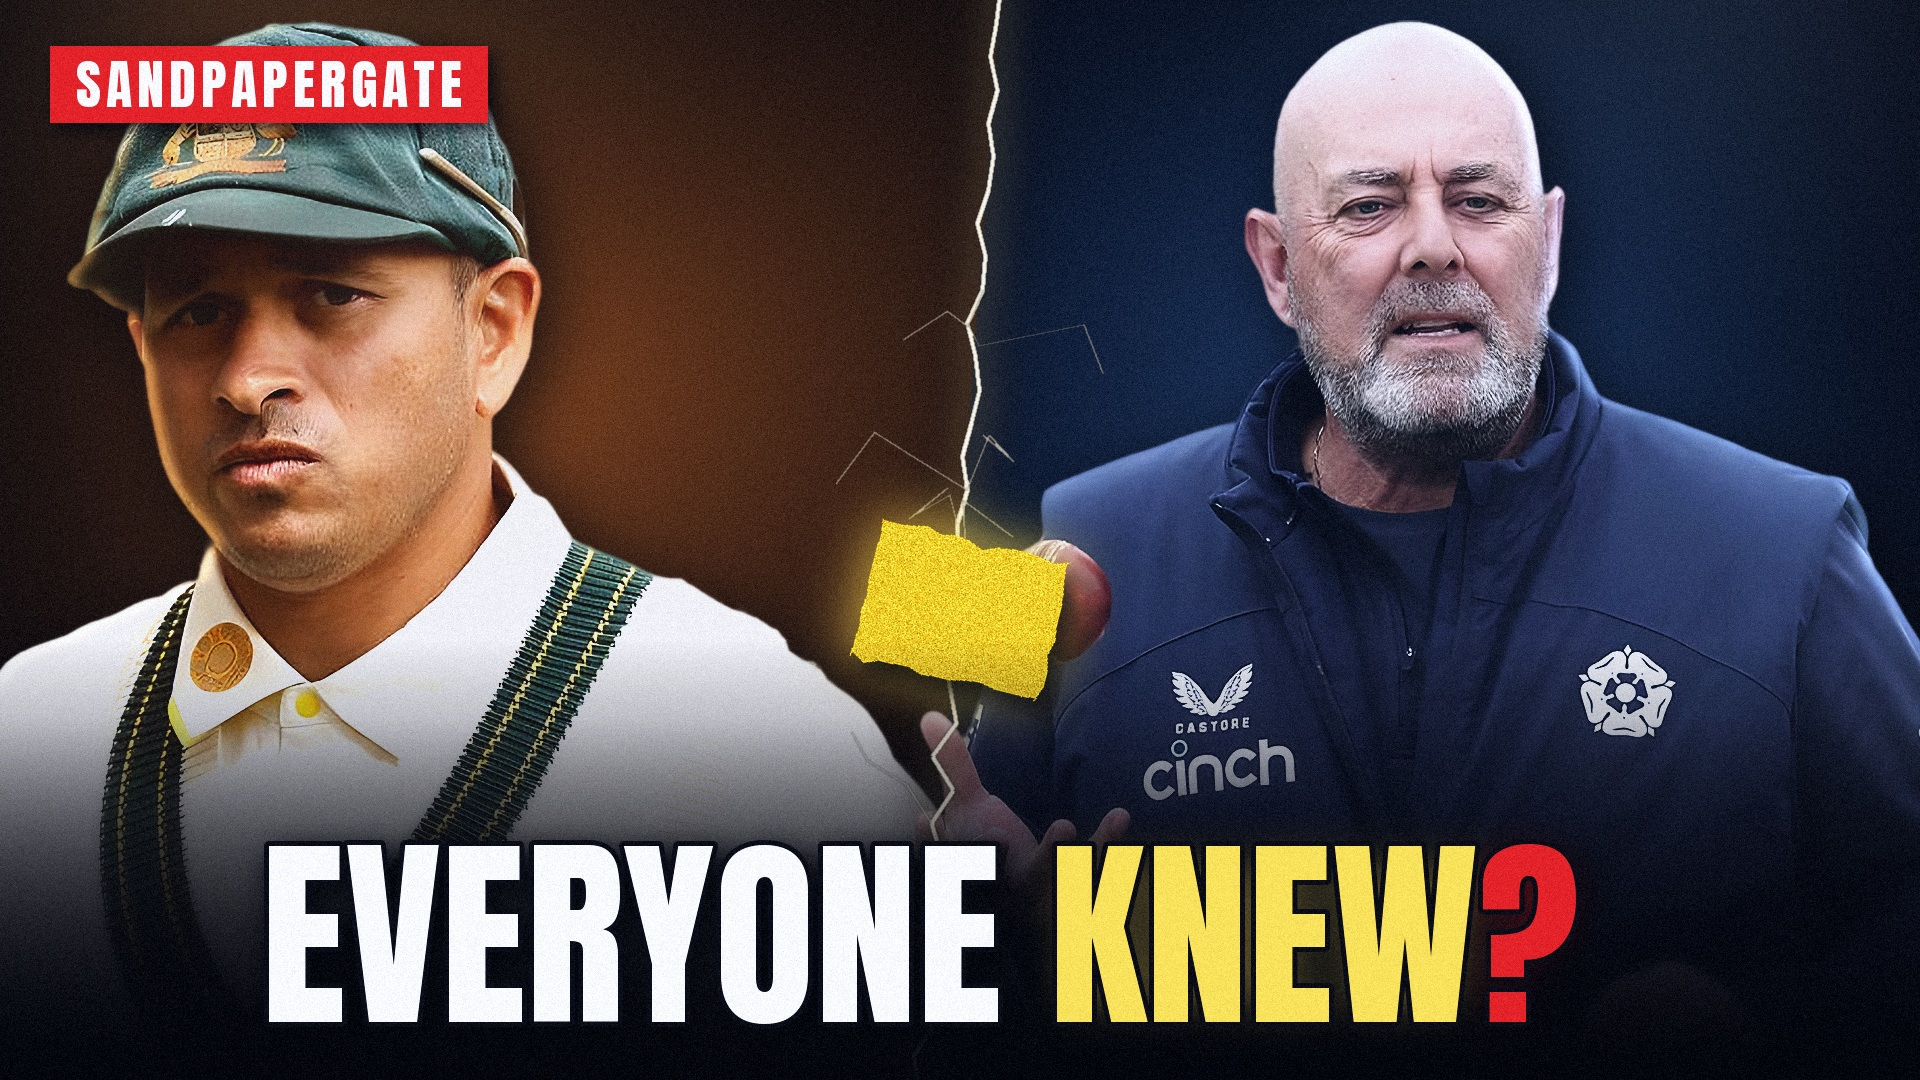
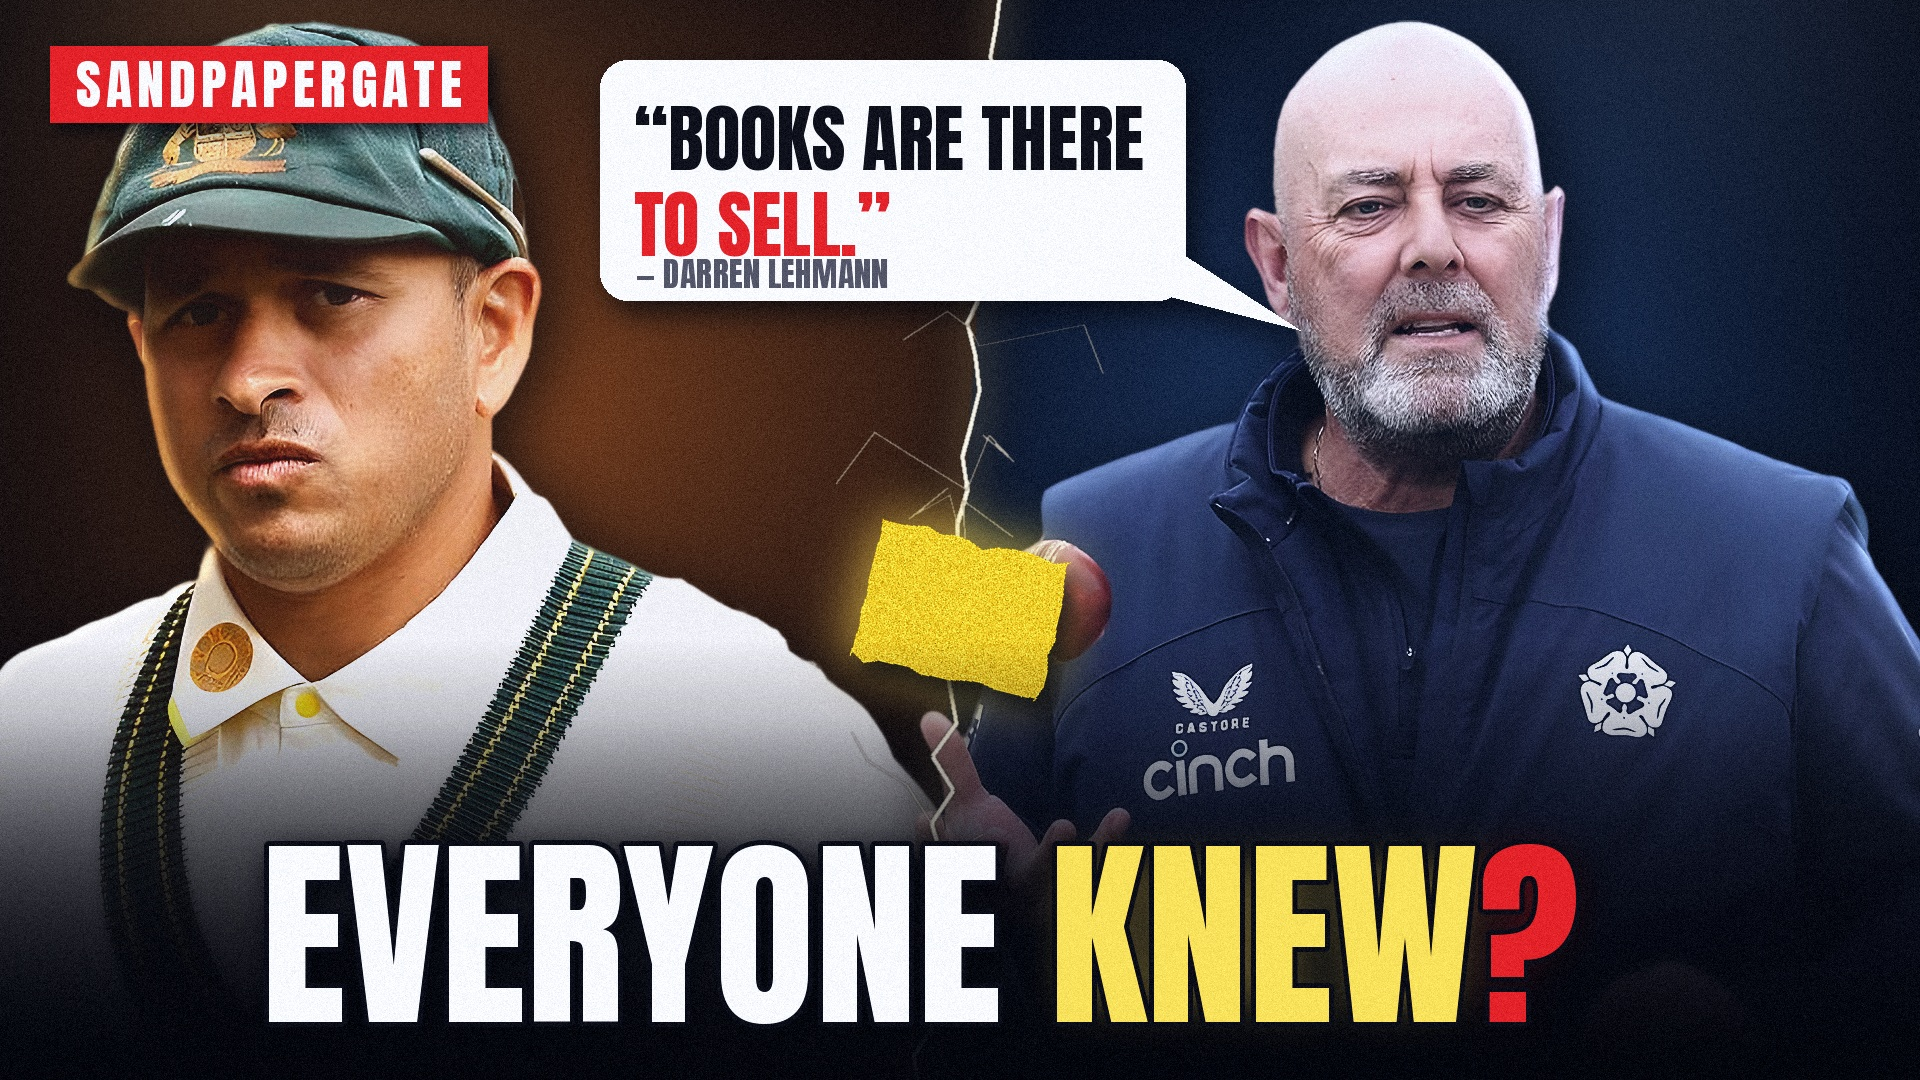
EVERYONE KNEW? thumbnail: Lehmann's 'books are there to sell' speech bubble
Claude-Session: https://claude.ai/code/session_01SQh72PYSr2UGL5osbLDTTd

Changed region(s): [[0.3125, 0.0306, 0.6875, 0.3056]]

diff --git a/sandpaper/thumb/thumb_everyone_knew.py b/sandpaper/thumb/thumb_everyone_knew.py
@@ -94,6 +94,24 @@ def tag(base, txt, x, y):
         xx += f.getlength(c) + track
 
 
+def quote_bubble(base, x0, y0, x1, y1, tail_to):
+    """White speech bubble with Lehmann's radio line, tail pointing at him."""
+    lay = Image.new("RGBA", base.size, (0, 0, 0, 0))
+    d = ImageDraw.Draw(lay)
+    d.rounded_rectangle((x0, y0, x1, y1), radius=28, fill=(255, 255, 255, 255))
+    tx, ty = tail_to
+    d.polygon([(x1 - 40, y1 - 70), (x1 - 40, y1 - 10), (tx, ty)], fill=(255, 255, 255, 255))
+    sh = Image.new("RGBA", base.size, (0, 0, 0, 0))
+    sh.putalpha(lay.getchannel("A").filter(ImageFilter.GaussianBlur(14)).point(lambda v: int(v * 0.7)))
+    base.alpha_composite(sh, (8, 12))
+    base.alpha_composite(lay)
+    d = ImageDraw.Draw(base)
+    f = ImageFont.truetype(ANTON, 74)
+    for i, (txt, col) in enumerate([("“BOOKS ARE THERE", (16, 16, 20)), ("TO SELL.”", RED)]):
+        d.text((x0 + 34, y0 + 22 + i * 86), txt, font=f, fill=col)
+    d.text((x0 + 36, y1 - 52), "— DARREN LEHMANN", font=ImageFont.truetype(ANTON, 34), fill=(90, 90, 100))
+
+
 def headline(base, top=845, size=205):
     tw.floor(base, 640)
     f = ImageFont.truetype(ANTON, size)
@@ -146,6 +164,7 @@ def main():
     sp = sandpaper()
     base.alpha_composite(sp, (960 - sp.width // 2, 610 - sp.height // 2))
     tag(base, "SANDPAPERGATE", 50, 46)
+    quote_bubble(base, 600, 60, 1185, 300, (1300, 330))
     headline(base)
     tw.HERE = HERE
     tw.finish(base, "thumb_everyone_knew")
